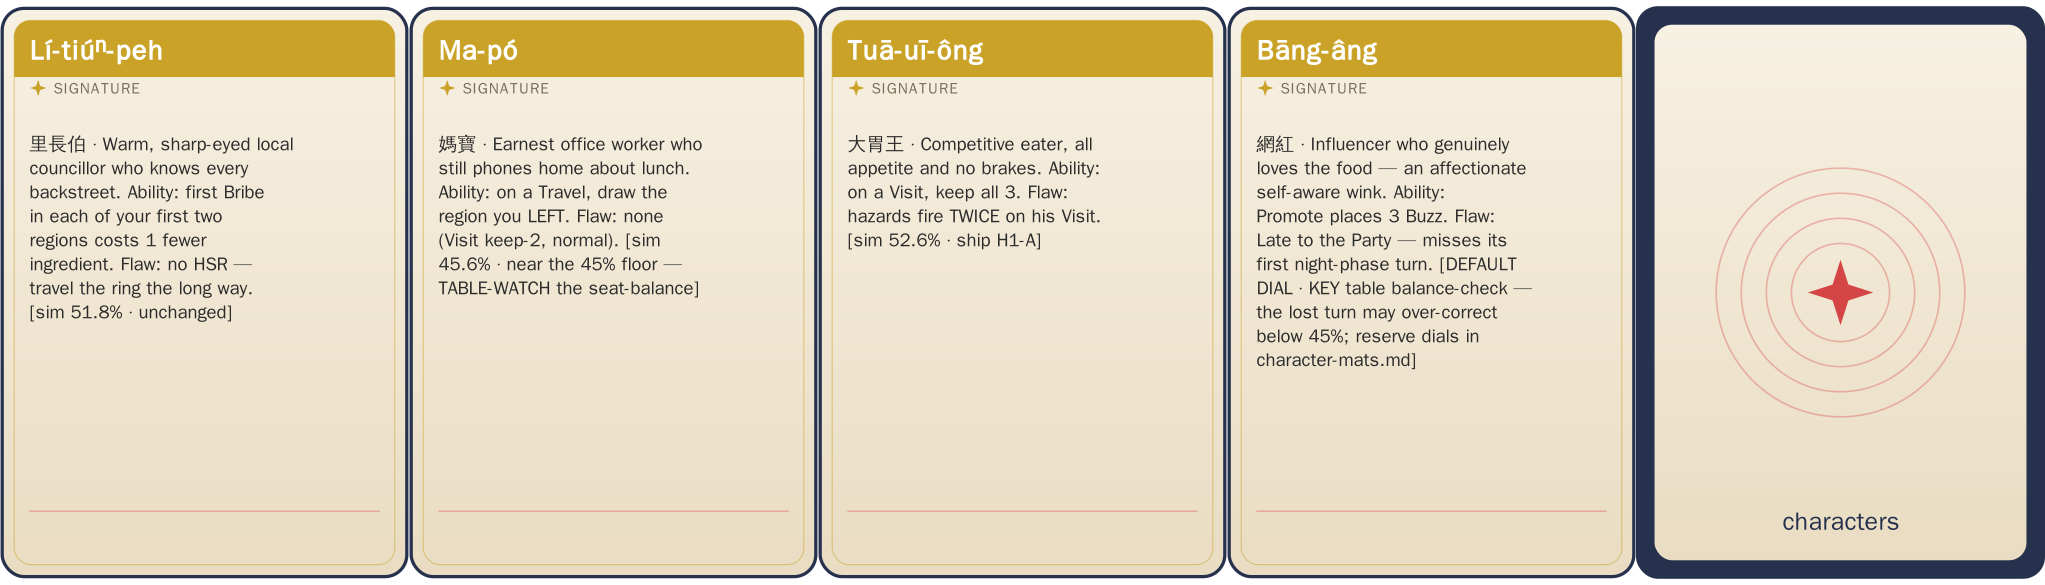
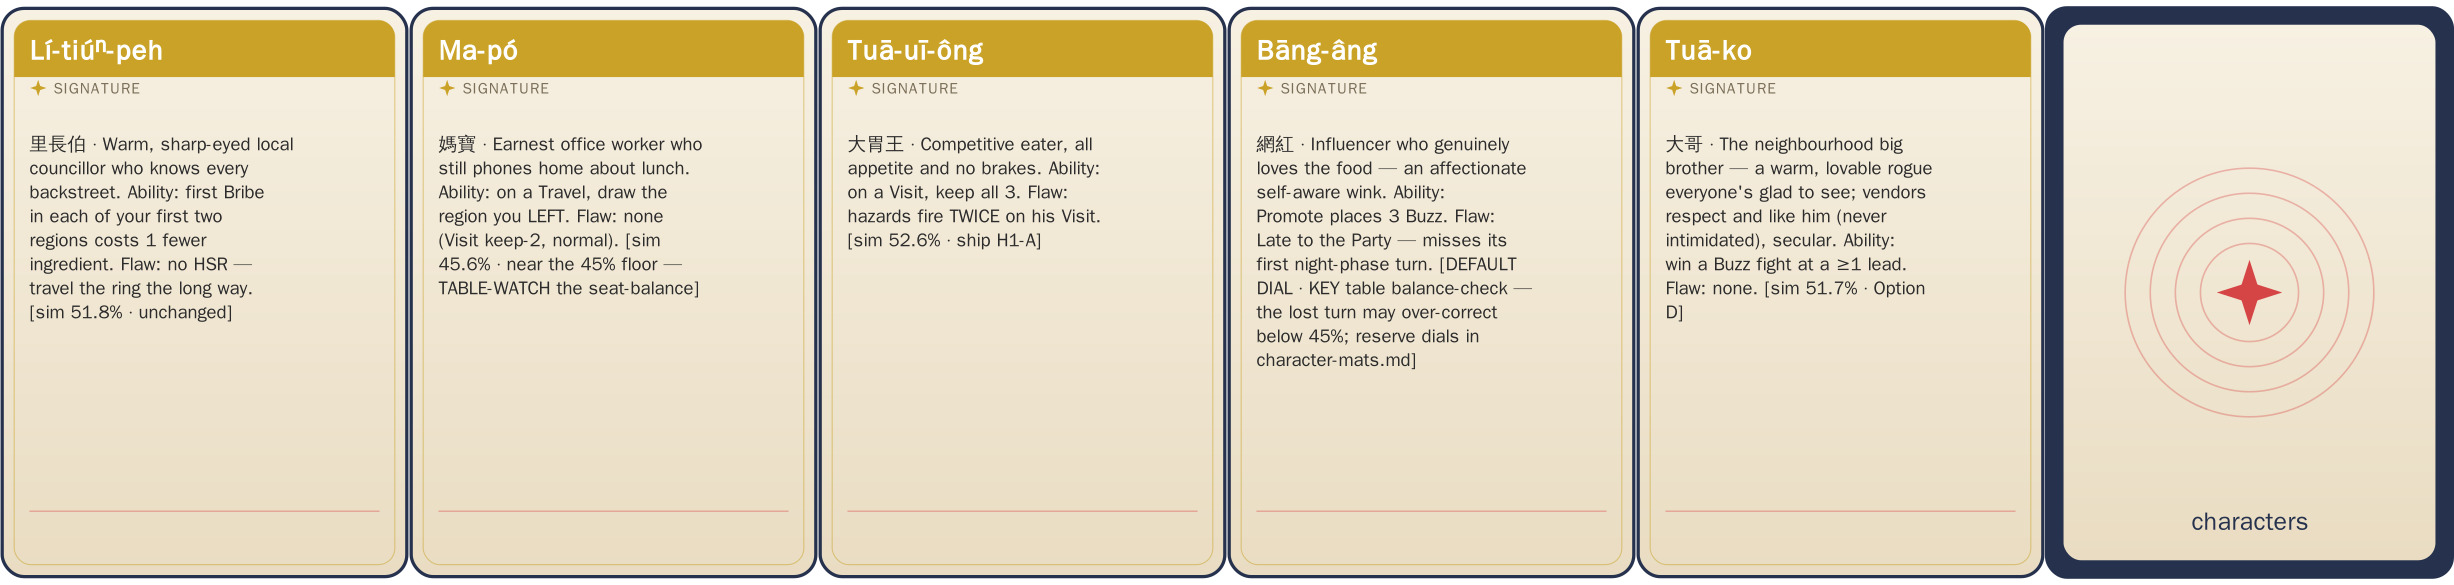
Add the 5th character mat 大哥 (v6.2 build complete — 5 mats, linter green)
Why: the prior build brief omitted the locked 5th character; adding him
completes the v6.2 character set.

大哥 Tuā-ko "Everybody Knows 大哥" — wins a Buzz fight at a ≥1 lead (a
mat-level override of the standard ≥2 majority; no vendor rows change, all
still print buzz_cost=2 as the reminder), no flaw (option D, sim 51.7%). Mat
text kept warm/secular per the identity.md binding — lovable-rogue big
brother the vendors like and respect, never intimidation, no 八家將/gang
framing.

Linter still 0 errors; characters sheet re-rendered to 5 cards + back.
components/character-mats.md now documents all five kits + the 網紅 reserve
dials. v6.2 component DATA is now complete and ready for the Screentop render.

Claude-Session: https://claude.ai/code/session_01BYsTkbsM578kobte3YG9zo

diff --git a/games/travel-agents/components/character-mats.md b/games/travel-agents/components/character-mats.md
@@ -4,8 +4,9 @@ Companion to `characters.csv`. The CSV carries the **locked default kits**; this
 **reserve dials** and one **build-scope flag** for the Director. Data is the source of truth — change
 the kit in `characters.csv`, not in a rendered mat.
 
-## What was built (this pass)
-Per the bg-developer task, **four** mats were built to the locked v6.2 kits:
+## What was built — the FIVE locked v6.2 mats
+All **five** mats from the locked v6.2 spec (`design/v6.2-content-draft.md` §Character kits) are built.
+(大哥 was added after the CD corrected the brief — the original bg-developer task said "four" in error.)
 
 | Mat | Ability | Flaw (default) | Sim |
 |---|---|---|---:|
@@ -13,18 +14,18 @@ Per the bg-developer task, **four** mats were built to the locked v6.2 kits:
 | 媽寶 Ma-pó | Mum's Packed Lunch (Travel draws the region you LEFT) | none (Visit keep-2 normal) | 45.6% |
 | 大胃王 Tuā-uī-ông | Bottomless (Visit keep all 3) | hazards fire TWICE on his Visit | 52.6% |
 | 網紅 Bāng-âng | Going Viral (Promote places 3 Buzz) | Late to the Party (misses first NIGHT-phase turn) | 55.0%* |
+| 大哥 Tuā-ko | Everybody Knows 大哥 (win a Buzz fight at a ≥1 lead, not the usual ≥2) | **none** (Option D) | 51.7% |
 
-## ⚠ BUILD-SCOPE FLAG for the Director — 大哥 (the 5th locked character) was NOT built
-The v6.2 LOCKED spec (`design/v6.2-content-draft.md` §Character kits) lists **five** characters. The
-bg-developer task explicitly said **"Four character mats"** and named only the four above, omitting
-**大哥 (Everyone Knows 大哥 — Bribe with only a ≥1 Buzz margin; no flaw; sim 51.7%, Option D)**.
-I followed the explicit instruction and built four. **Decision for the human:** include 大哥 as a fifth
-mat? It's in-band and locked in the spec; adding it is a one-row CSV addition. If yes, its kit is:
-- ability `bribe_margin1` — *Everyone Knows 大哥* — you may Bribe with only a **≥1** Buzz margin over
-  your rival (everyone else needs ≥2).
-- flaw `none` — the tie-win and the +1-ingredient "tab" are both DROPPED.
-- **NB the vendor data assumes the ≥2 majority for everyone** (`buzz_cost` = 2 is the printed majority
-  reminder on every vendor). 大哥's ≥1 is a **mat override**, not per-vendor data — no vendor rows change.
+## 大哥 — the Buzz-margin override (no vendor data changes)
+- ability `bribe_margin1` — *Everybody Knows 大哥* — you win a Buzz fight at a lead of just **≥1** over
+  your rival (everyone else needs the ≥2 majority).
+- flaw `none` — the tie-win and the +1-ingredient "tab" are both DROPPED; the slim ≥1 edge alone tested
+  balanced at 51.7% (Option D).
+- **NB the vendor data prints the ≥2 majority for everyone** (`buzz_cost` = 2 is the printed majority
+  reminder on every vendor). 大哥's ≥1 is a **mat-level override**, not per-vendor data — no vendor rows
+  change.
+- **Sensitivity (bound in identity.md):** warm cinema lovable-rogue; vendors respect and *like* him
+  (never intimidated), fully secular (NOT 八家將 / gang imagery). Mat text stays warm.
 
 ## 網紅 — the KEY table balance-check + the lost-turn DIAL (carry in reserve)
 Built to the **default dial** (`late_to_night`). The sim seated 網紅 at 55.0% modelling the flaw only as
